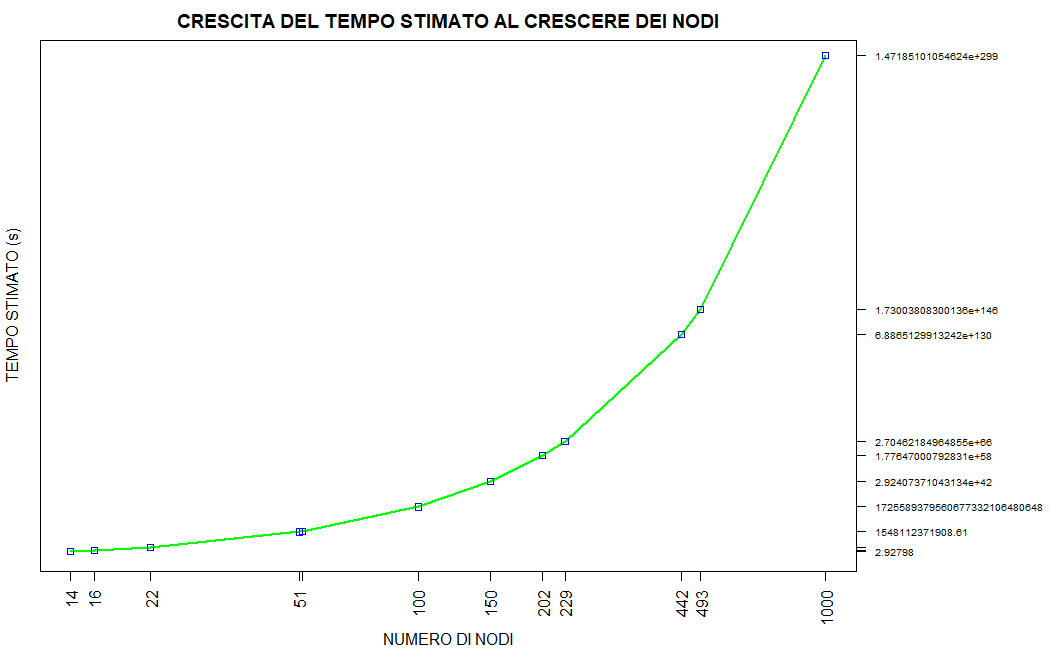
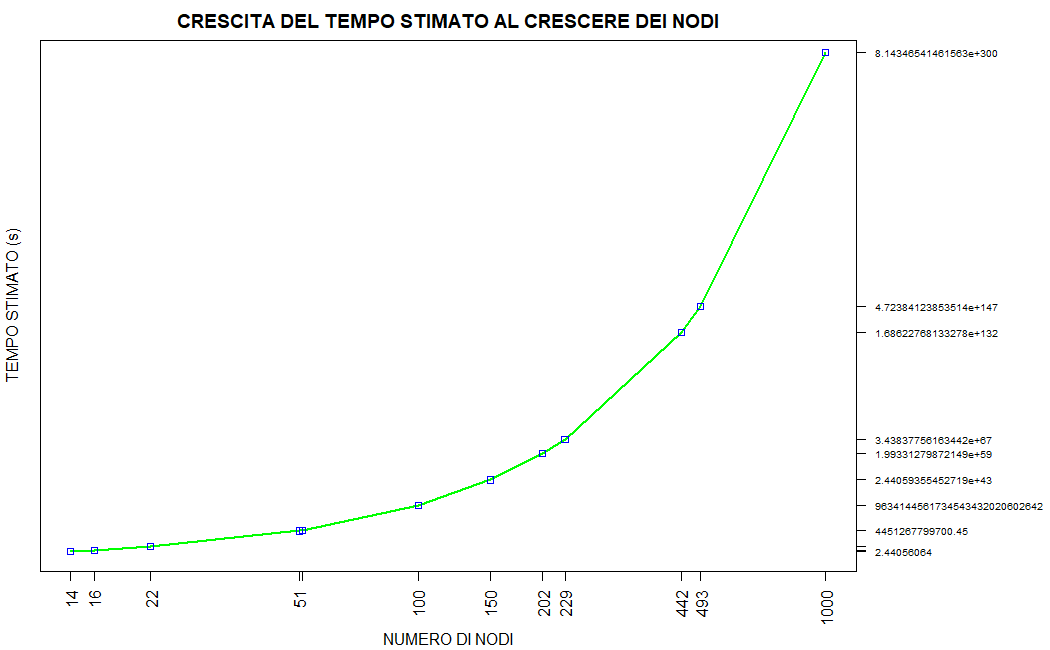
Spostato formula in unordere_map, cambiato grafico

diff --git a/relazione/relazione.tex b/relazione/relazione.tex
@@ -257,8 +257,15 @@ il metodo controlla se l'oggetto rappresenta un sottoinsieme singleton contenent
 \subsubsection{Unordered Map}
 %TODO Inserire formula di ale
 %TODO ok se ho tempo la inserisco, altrimenti devi fare tu
-La \verb|std::unordered_map| è l'implementazione di una \textbf{Hash Map} in \textit{C++}. Questo contenitore è stato utilizzato nell'algoritmo di \textbf{Held e Karp} per l'implementazione di \verb|d[v,S]| e $\pi$\verb|[v,S]|, dato che la complessità media di lettura e scrittura è \textit{O(1)} nel nostro caso in cui supponiamo di non avere un limite di memoria.\\
-Dato che la funzione di \textbf{hashing} prende in input il nodo \verb|v| e il ciclo corrente \verb|S| rappresentato dal \verb|std::vector|$<$bool$>$ della classe \textbf{SubSet}, è risultato necessario rendere pubblico il corrispondente campo dati per ottimizzare i tempi di esecuzione.
+La \verb|std::unordered_map| è l'implementazione di una \textbf{Hash Map} in \textit{C++}. Questo contenitore è stato utilizzato nell'algoritmo di \textbf{Held e Karp} per l'implementazione di \verb|d[v,S]| e $\pi$\verb|[v,S]|.\\
+La dimensione massima di \textit{d} e $\pi$ durante l'esecuzione dell'algoritmo di \textbf{Held e Karp} può essere espressa in funzione del numero di nodi $n$ del grafo:
+$$max\_dim = (\sum_{k=2}^{n-1}k\cdot\binom{n-1}{k}) + 1 = 2^{(n-2)} \cdot (n-1) - (n-1) +1 = (n-1)\cdot(2^{(n-2)}-1) +1$$ che a lezione è stato approssimato a $O(2^{(n)} * n)$.\\
+La scelta di rappresentare \textit{d} e $\pi$ con un \verb|std::unordered_map| piuttosto che una matrice $2^{(n)} * n$ è dovuta al fatto che la formula esatta per la dimensione rispetto al suo upper-bound $2^{(n)} * n$ garantisce uno spazio di allocazione minore per $n$ molto grandi, inoltre dato che utilizziamo un \textbf{TIMEOUT} per terminare preventivamente l'esecuzione, la possibilità di allocare dinamicamente la \verb|std::unordered_map| rispetto ad un allocazione iniziale statica della matrice ci ha portato a scegliere la prima.
+La scelta di una \textbf{Hash Map} rispetto alla semplice mappa fornita dalla libreria \verb|std::map| è dovuta al fatto che \verb|std::unordered_map| garantisce accesso e inserimento ai valori in tempo medio $O(1)$, sotto ipotesi che ogni elemento possa avere un \textit{bucket} unico, mentre la \verb|std::map| ha tempo di accesso medio $O(\log{n})$\\
+\subsubsection{Nota sui parametri di SubSet in relazione ad Unordered Map}
+Dato che la funzione di \textbf{hashing} dell'\textbf{Unordered Map} prende in input il nodo \verb|v| e il ciclo corrente \verb|S| rappresentato dal \verb|std::vector|$<$bool$>$ della classe \textbf{SubSet}, è risultato necessario rendere pubblico il corrispondente campo dati per ottimizzare i tempi di esecuzione.
+
+\newpage
 \subsection{Algoritmi}
 \subsubsection{Prim}
 L'implementazione dell'algoritmo di Prim è stata realizzata nel corso dell'homework precedente. Tale algoritmo è utilizzato all'interno dell'algoritmo di 2-approssimazione ed è stato adeguatamente modificato per poter essere utilizzato con la matrice di adiacenza estratta da un oggetto \textit{Graph\_Data}.
@@ -515,7 +522,7 @@ Di seguito è mostrata la tabella completa dei tempi di esecuzione (ignorando il
 
 \subsection{Analisi e conclusioni}
 \subsubsection{Confronto generale su pesi dei cicli ed errori relativi}
-Per paragonare gli algoritmi approssimati con l'algoritmo esatto di Held e Karp, abbiamo effettuato test imponendo un timeout di 20 minuti, in modo da rendere più preciso possibile il ciclo ricavato da quest'ultimo. Tuttavia, come si può notare dalla Figura \ref{total}, ad eccezione di qualche istanza, l'algoritmo di Held e Karp con timeout restitutisce quasi sempre l'approssimazione pessima (in certi casi con valori superiori di un ordine di grandezza rispetto a quelli restituiti dagli altri algoritmi).
+Per paragonare gli algoritmi approssimati con l'algoritmo esatto di Held e Karp, abbiamo effettuato test imponendo un timeout di 20 minuti, in modo da rendere più preciso possibile il ciclo ricavato da quest'ultimo. Tuttavia, come si può notare dalla Figura \ref{total}, ad eccezione di qualche istanza, l'algoritmo di Held e Karp con timeout restitutisce quasi sempre l'approssimazione pessima (in certi casi con valori superiori di un ordine di grandezza) rispetto a quelle restituite dagli altri algoritmi.
 \begin{figure}[H]
 	\centering
 	\includegraphics[width=\textwidth,height=\textheight,keepaspectratio]{CONFRONTO_RISULTATI.png}
@@ -562,11 +569,10 @@ Come affermato in precedenza, Kruskal Union-Find è l'algoritmo più veloce su o
 \subsubsection{Stima dei tempi di esecuzione di Held-Karp}
 %TODO trova il fattore dividendo per 2^n*n^2 e poi fai lo stesso grafico
 %TODO mi sono perso cosa sia questo fattore, se ho tempo mi riguardo i grafici, altrimenti suppongo che quello da dividere per 2^n*n^2 sia il tempo stimato dato che quello si trova sull asse Y
-La dimensione massima di \textit{d} e $\pi$ durante l'esecuzione dell'algoritmo di Held e Karp può essere espressa in funzione del numero di nodi $n$ del grafo:
-$$max\_dim = (\sum_{k=2}^{n-1}k\cdot\binom{n-1}{k}) + 1 = 2^{(n-2)} \cdot (n-1) - (n-1) +1 = (n-1)\cdot(2^{(n-2)}-1) +1$$
-Sapendo che avviene un inserimento in \textit{d} e $\pi$ ad ogni esecuzione del passo induttivo dell'algoritmo ...  supponendo di avere un computer capace di eseguire ogni chiamata ricorsiva in tempo medio $\sim 5.5*10^{-5}$ possiamo stimare il tempo di esecuzione dell'algoritmo per ogni istanza del dataset di grafi.
+
+Sapendo che avviene un inserimento in \textit{d} e $\pi$ ad ogni esecuzione del passo induttivo dell'algoritmo ...  supponendo di avere un computer capace di eseguire ogni chiamata ricorsiva in tempo medio $\sim 7.6*10^{-7}$ possiamo stimare il tempo di esecuzione dell'algoritmo per ogni istanza del dataset di grafi.
 \input{stima_dim.tex}
-I primi 3 tempi non sono stime ma sono stati ottenuti tramite l'esecuzione dell'algoritmo, possiamo osservare come già con 22 nodi il tempo di esecuzione si aggira intorno ai 40 minuti, ma il salto a 51 nodi porta il tempo stimato a circa 49090 anni
+I primi 3 tempi non sono stime ma sono stati ottenuti tramite l'esecuzione dell'algoritmo, possiamo osservare come già con 22 nodi il tempo di esecuzione si aggira intorno ai 40 minuti, ma il salto a 51 nodi porta il tempo stimato a circa 141149 anni
 %TODO una conclusione??? dimostrando così l'impraticabilità dell'algoritmo per grafi di dimensioni XXX?
 \begin{figure}[h]
 \centering
@@ -574,6 +580,7 @@ I primi 3 tempi non sono stime ma sono stati ottenuti tramite l'esecuzione dell'
 \caption{\textbf{Stima della crescita del tempo di esecuzione al variare dei nodi}}
 \label{STIME_temp}
 \end{figure}
+Questo è un lower-bound dato che per i primi 3 grafi che siamo risuciti a 
 \end{flushleft}
 
 

diff --git a/relazione/stima_dim.tex b/relazione/stima_dim.tex
@@ -1,18 +1,18 @@
 \begin{longtable}{|c|c|c|c|}
 \hline
-\textbf{Istanza} & \textbf{Formula dimensione} & \textbf{Dimensione \textit{d} e $\pi$} & \textbf{Tempo stimato (s)}   \\ \hline
-burma14.tsp      & $13 * (2^{12} - 1) + 1$     & 53236                      & \textbf{2.44453}             \\ \hline
-ulysses16.tsp    & $15 * (2^{14} - 1) + 1$     & 245746                     & \textbf{14.6475}             \\ \hline
-ulysses22.tsp    & $21 * (2^{20} - 1) + 1$     & 22020076                   & \textbf{2463.33}             \\ \hline
-eil51.tsp        & $50 * (2^{49} - 1) + 1$     & 28147497671065552          & 1548112371908.61             \\ \hline
-berlin52.tsp     & $51 * (2^{50} - 1) + 1$     & 57420895248973776          & 3158149238693.56             \\ \hline
-kroA100.tsp      & $99 * (2^{98} - 1) + 1$     & 3.13743523556487e+31       & 1725589379560677332106480648 \\ \hline
-kroD100.tsp      & $99 * (2^{98} - 1) + 1$     & 3.13743523556487e+31       & 1725589379560677332106480648 \\ \hline
-ch150.tsp        & $149 * (2^{148} - 1) + 1$   & 5.3164976553297e+46        & 2.92407371043134e+42         \\ \hline
-gr202.tsp        & $201 * (2^{200} - 1) + 1$   & 3.22994546896057e+62       & 1.77647000792831e+58         \\ \hline
-gr229.tsp        & $228 * (2^{227} - 1) + 1$   & 4.91749427208828e+70       & 2.70462184964855e+66         \\ \hline
-pcb442.tsp       & $441 * (2^{440} - 1) + 1$   & 1.25209327114985e+135      & 6.8865129913242e+130         \\ \hline
-d493.tsp         & $492 * (2^{491} - 1) + 1$   & 3.1455237872752e+150       & 1.73003808300136e+146        \\ \hline
-dsj1000.tsp      & $999 * (2^{998} - 1) + 1$   & 2.6760927464477e+303       & 1.47185101054624e+299        \\ \hline
+\textbf{Istanza} & \textbf{Formula tempo} & \textbf{Dimensione \textit{d} e $\pi$} & \textbf{Tempo stimato (s)}   \\ \hline
+burma14.tsp      & $\sim 2.44056064$     & 53236                      & \textbf{2.44453}             \\ \hline
+ulysses16.tsp    & $\sim 12.75068416$     & 245746                     & \textbf{14.6475}             \\ \hline
+ulysses22.tsp    & $\sim 1542.83278336$     & 22020076                   & \textbf{2463.33}             \\ \hline
+eil51.tsp        & $(2^{51} * 51^{2}) * 7.6*10^{-7}$     & 28147497671065552          & 4451267799700.45 \\ \hline				
+berlin52.tsp     & $(2^{52} * 52^{2}) * 7.6*10^{-7}$     & 57420895248973776          & 9255077378231.46 \\ \hline
+kroA100.tsp      & $(2^{100} * 100^{2}) * 7.6*10^{-7}$     & 3.13743523556487e+31     & 9634144561734543432020602642 \\ \hline
+kroD100.tsp      & $(2^{100} * 100^{2}) * 7.6*10^{-7}$     & 3.13743523556487e+31     & 9634144561734543432020602642 \\ \hline
+ch150.tsp        & $(2^{150} * 150^{2}) * 7.6*10^{-7}$   & 5.3164976553297e+46        & 2.44059355452719e+43 \\ \hline
+gr202.tsp        & $(2^{202} * 202^{2}) * 7.6*10^{-7}$   & 3.22994546896057e+62       & 1.99331279872149e+59 \\ \hline
+gr229.tsp        & $(2^{229} * 229^{2}) * 7.6*10^{-7}$   & 4.91749427208828e+70       & 3.43837756163442e+67 \\ \hline
+pcb442.tsp       & $(2^{442} * 442^{2}) * 7.6*10^{-7}$   & 1.25209327114985e+135      & 1.68622768133278e+132 \\ \hline
+d493.tsp         & $(2^{493} * 493^{2}) * 7.6*10^{-7}$   & 3.1455237872752e+150       & 4.72384123853514e+147 \\ \hline
+dsj1000.tsp      & $(2^{1000} * 1000^{2}) * 7.6*10^{-7}$   & 2.6760927464477e+303     & 8.14346541461563e+300 \\ \hline
 \caption{\textbf{Stima del tempo di esecuzione per la soluzione esatta}}
 \end{longtable}
